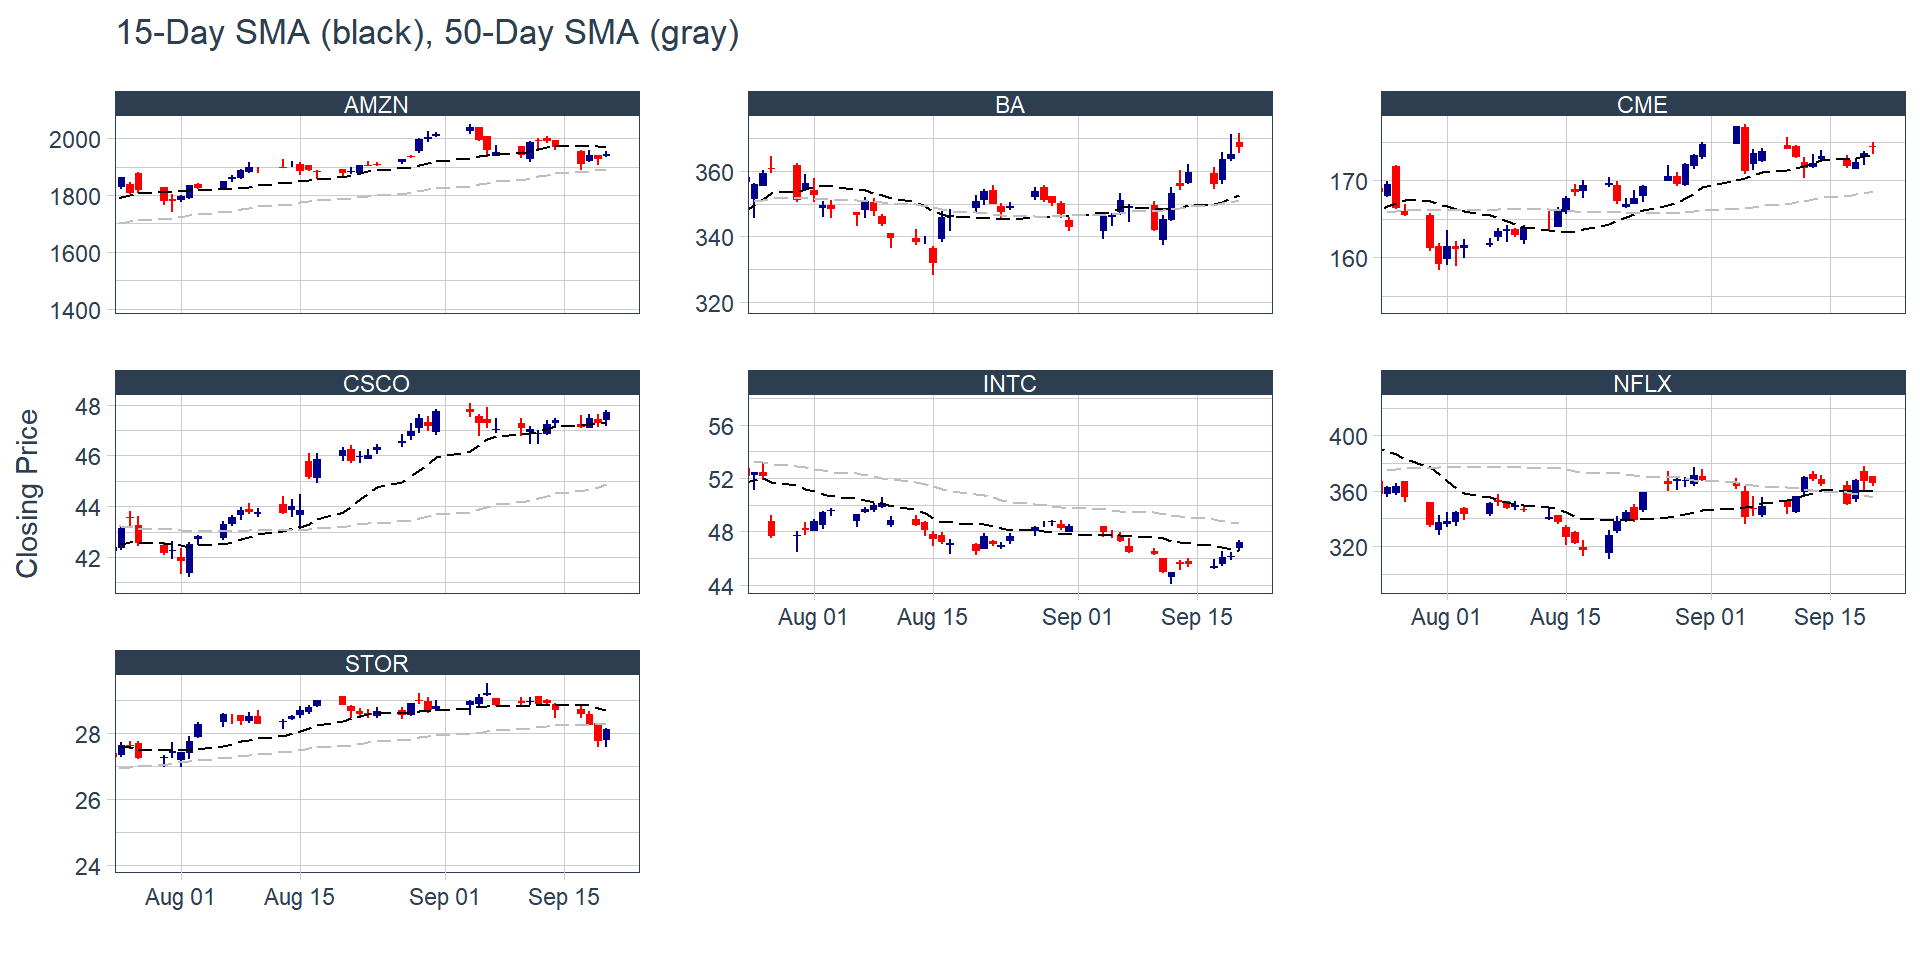
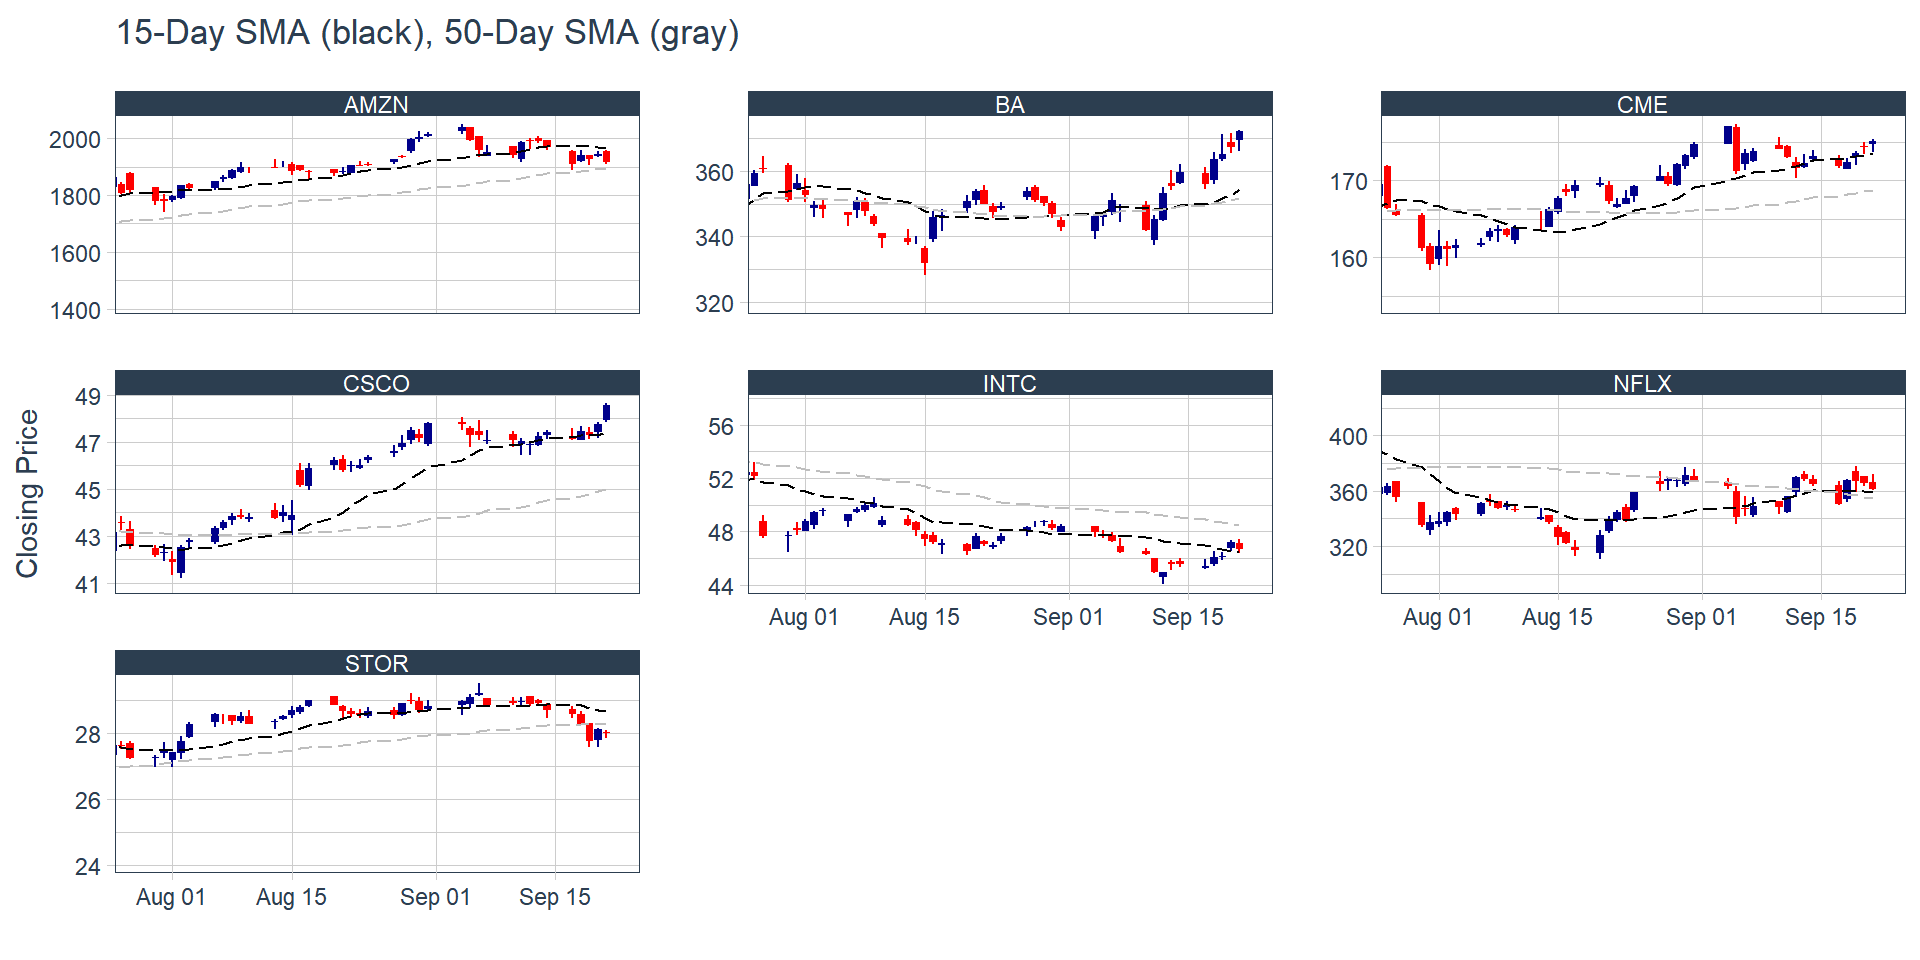
changed current month contribution formatting from red to italic gray

diff --git a/index.html b/index.html
@@ -440,49 +440,49 @@ $902.54
 </td>
 </tr>
 <tr>
-<td style="text-align:right;width: 9em; display: inline-block;; font-weight: bold;color: red; padding-left: 2em;" indentlevel="1">
+<td style="text-align:right;width: 9em; display: inline-block;; font-style: italic;color: #B8C2C5; padding-left: 2em;" indentlevel="1">
 2018-09-30
 </td>
-<td style="text-align:right;width: 7em;; font-weight: bold;color: red;">
+<td style="text-align:right;width: 7em;; font-style: italic;color: #B8C2C5;">
 $50.15
 </td>
-<td style="text-align:right;width: 7em;; font-weight: bold;color: red;">
+<td style="text-align:right;width: 7em;; font-style: italic;color: #B8C2C5;">
 $0.00
 </td>
-<td style="text-align:right;width: 7em;; font-weight: bold;color: red;">
+<td style="text-align:right;width: 7em;; font-style: italic;color: #B8C2C5;">
 $50.06
 </td>
-<td style="text-align:right;width: 7em;; font-weight: bold;color: red;">
+<td style="text-align:right;width: 7em;; font-style: italic;color: #B8C2C5;">
 $50.26
 </td>
-<td style="text-align:right;width: 7em;; font-weight: bold;color: red;">
+<td style="text-align:right;width: 7em;; font-style: italic;color: #B8C2C5;">
 $50.17
 </td>
-<td style="text-align:right;width: 7em;; font-weight: bold;color: red;">
+<td style="text-align:right;width: 7em;; font-style: italic;color: #B8C2C5;">
 $50.33
 </td>
-<td style="text-align:right;width: 7em;; font-weight: bold;color: red;">
+<td style="text-align:right;width: 7em;; font-style: italic;color: #B8C2C5;">
 $100.18
 </td>
-<td style="text-align:right;width: 7em;; font-weight: bold;color: red;">
+<td style="text-align:right;width: 7em;; font-style: italic;color: #B8C2C5;">
 $50.00
 </td>
-<td style="text-align:right;width: 7em;; font-weight: bold;color: red;">
+<td style="text-align:right;width: 7em;; font-style: italic;color: #B8C2C5;">
 $50.21
 </td>
-<td style="text-align:right;width: 7em;; font-weight: bold;color: red;">
+<td style="text-align:right;width: 7em;; font-style: italic;color: #B8C2C5;">
 $50.07
 </td>
-<td style="text-align:right;width: 7em;; font-weight: bold;color: red;">
+<td style="text-align:right;width: 7em;; font-style: italic;color: #B8C2C5;">
 $0.00
 </td>
-<td style="text-align:right;width: 7em;; font-weight: bold;color: red;">
+<td style="text-align:right;width: 7em;; font-style: italic;color: #B8C2C5;">
 $50.01
 </td>
-<td style="text-align:right;width: 7em;; font-weight: bold;color: red;">
+<td style="text-align:right;width: 7em;; font-style: italic;color: #B8C2C5;">
 $100.26
 </td>
-<td style="text-align:right;width: 7em;; font-weight: bold;color: red;">
+<td style="text-align:right;width: 7em;; font-style: italic;color: #B8C2C5;">
 $651.70
 </td>
 </tr>

diff --git a/portfolio.html b/portfolio.html
@@ -482,8 +482,8 @@ $69.37
 </table>
 <div id="candlestick-charts" class="section level3">
 <h3>Candlestick Charts</h3>
-<div id="to-2018-09-21" class="section level4">
-<h4>2018-07-27 to 2018-09-21</h4>
+<div id="to-2018-09-22" class="section level4">
+<h4>2018-07-28 to 2018-09-22</h4>
 <p><img src="portfolio_files/figure-html/unnamed-chunk-3-1.png" width="960" /></p>
 </div>
 </div>
